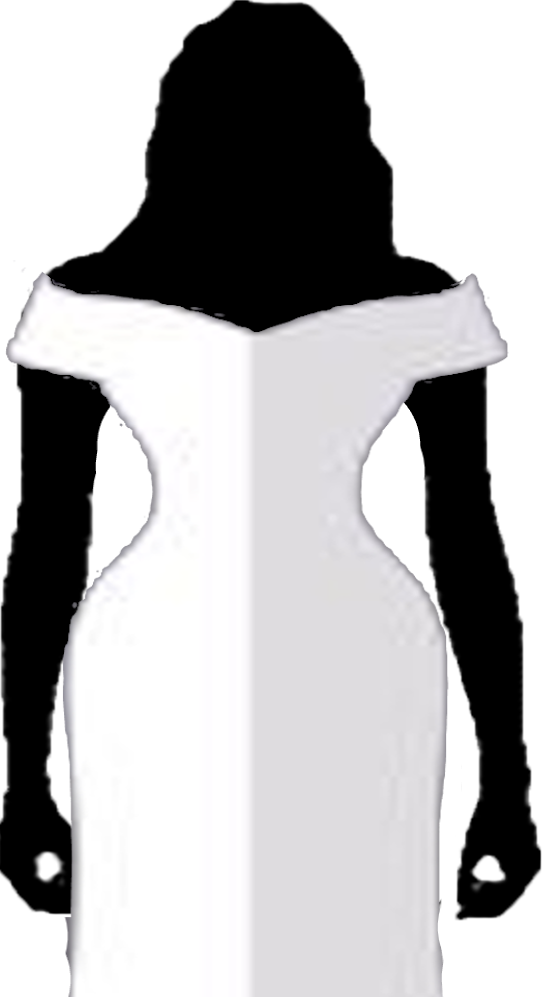
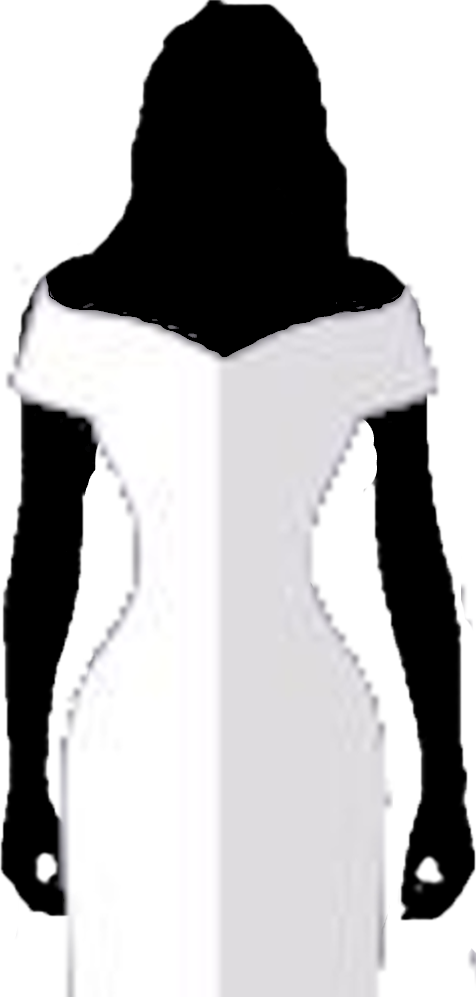
Add files via upload
Added the ability to change dress size

diff --git a/scripts/script.js b/scripts/script.js
@@ -43,7 +43,13 @@ function model(){
 * Adds the images to the dress library
 */
 function addImages(){
-  for(let i = 0; i < 2; i++){
+  let img = document.createElement("img");
+    img.src = "images/dress0/dress-icon.png";
+    img.style.cssText = "cursor:pointer;";
+    img.setAttribute("onclick","setDress("+0+")");
+    let dressLib = document.getElementById("dress-container");
+    dressLib.appendChild(img);
+  for(let i = 1; i < 2; i++){
     let img = document.createElement("img");
     img.src = "testimg.png";
     img.style.cssText = "width:40%;margin: 20px; cursor:pointer;";
